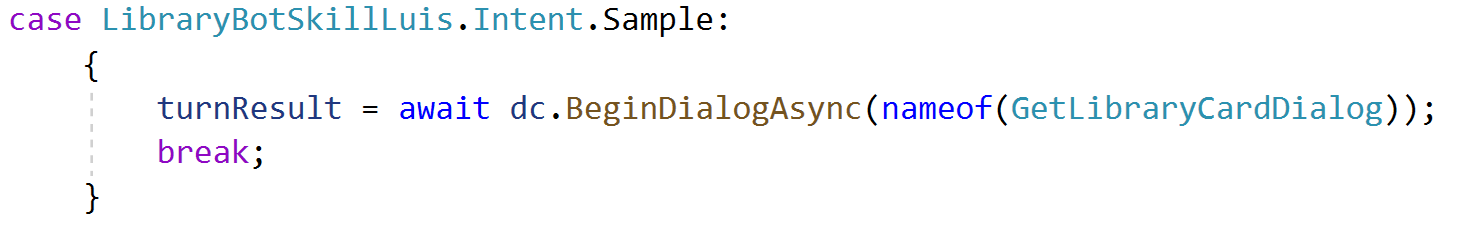
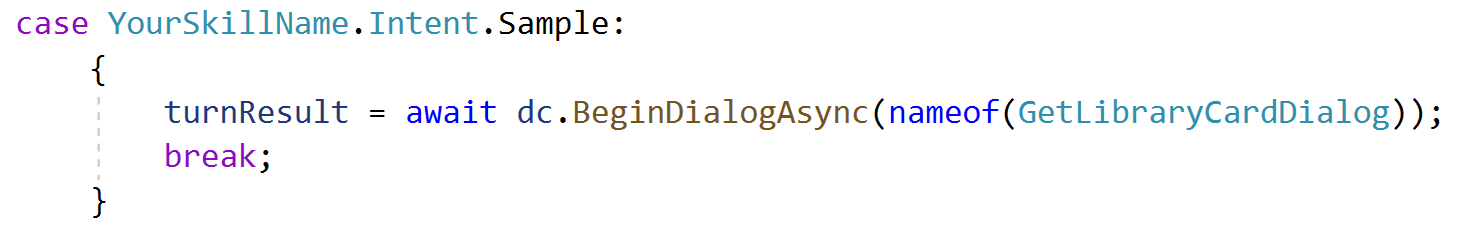
asdf

diff --git a/DialogAccelerator/README.md b/DialogAccelerator/README.md
@@ -52,9 +52,8 @@ the constructor of `MainDialog` in **MainDialog.cs**
 the following code to the `switch(intent)` statement:
 
 ```c#
-	case LibraryBotSkillLuis.Intent.ApplyForECard:
+	case <YourSkillNameHere>Luis.Intent.ApplyForECard:
 	{
-		//await dc.Context.SendActivityAsync("So you want library card do you?");
 		turnResult = await dc.BeginDialogAsync(nameof(GetLibraryCardDialog));
 
 		break;
@@ -63,6 +62,6 @@ the following code to the `switch(intent)` statement:
 
 > <img src="/Images/BeginDialog.png" width="800">
 If you don't have a LUIS Intent that corresponds to this new dialog yet, you
-can go with "*Plan B*" and make the `case LibraryBotSkillLuis.Intent.Sample:`
+can go with "*Plan B*" and make the `case YourSkillName.Intent.Sample:`
 statement look like the following:
 > <img src="/Images/PlanBBeginDialog.png" width="600">
